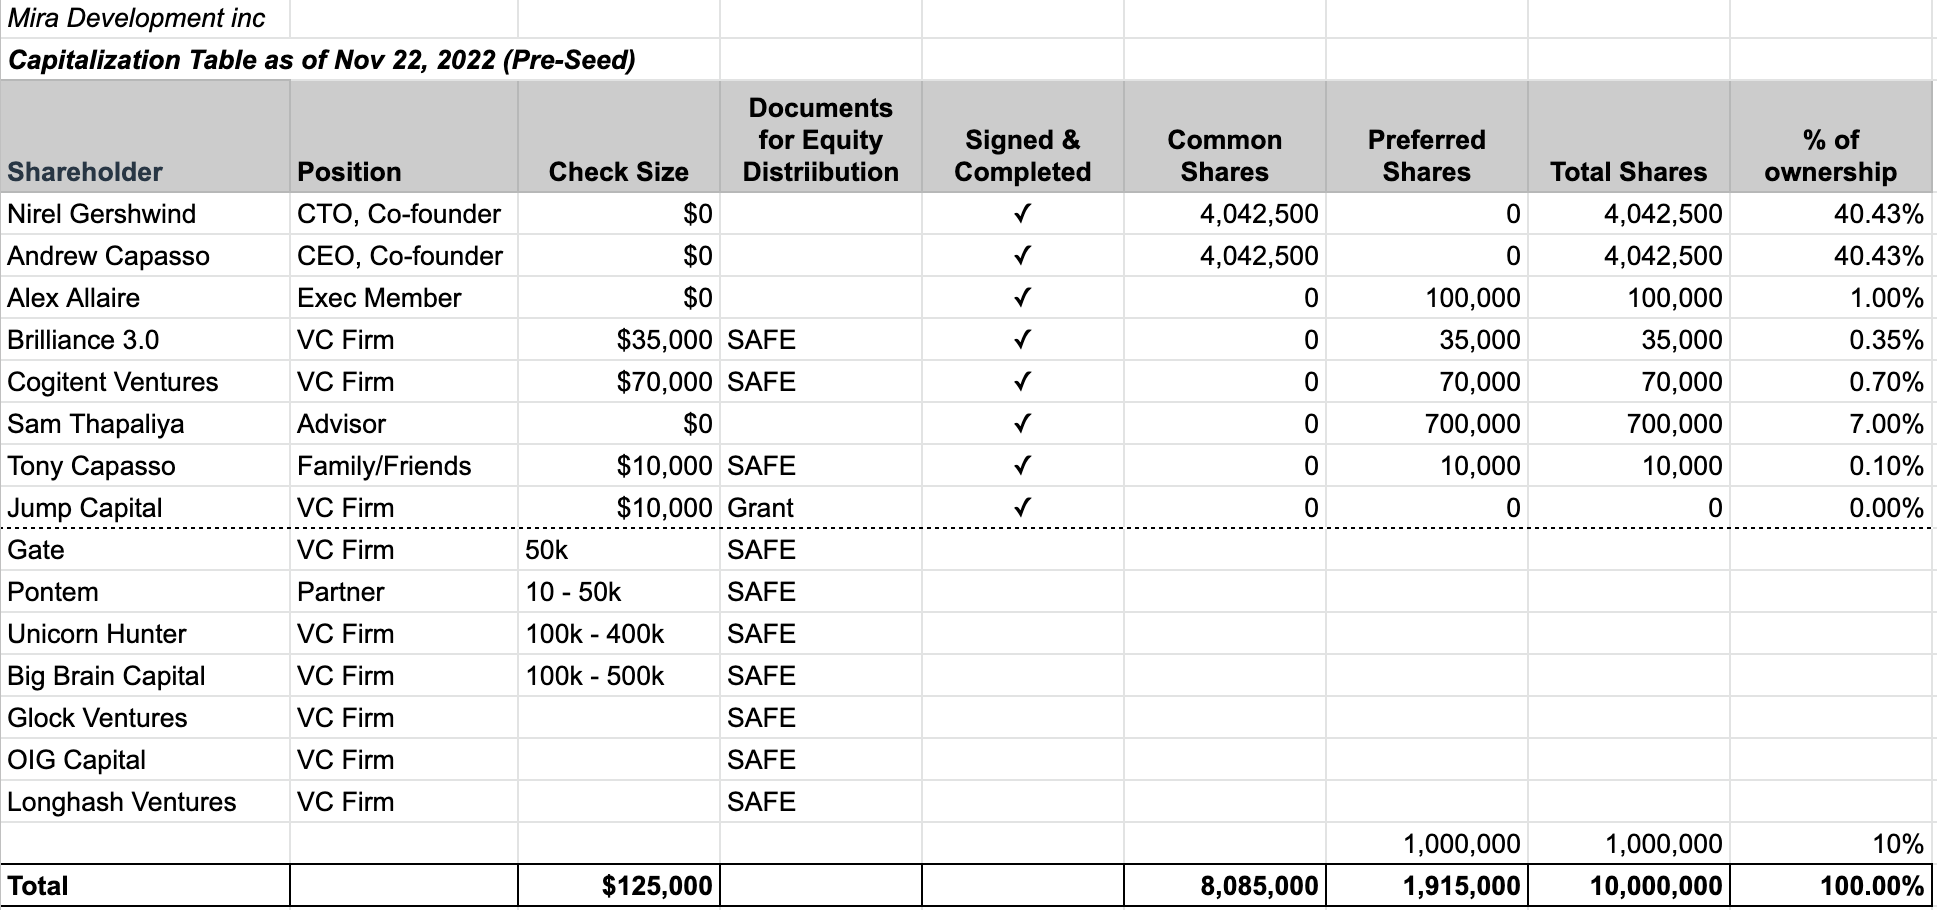
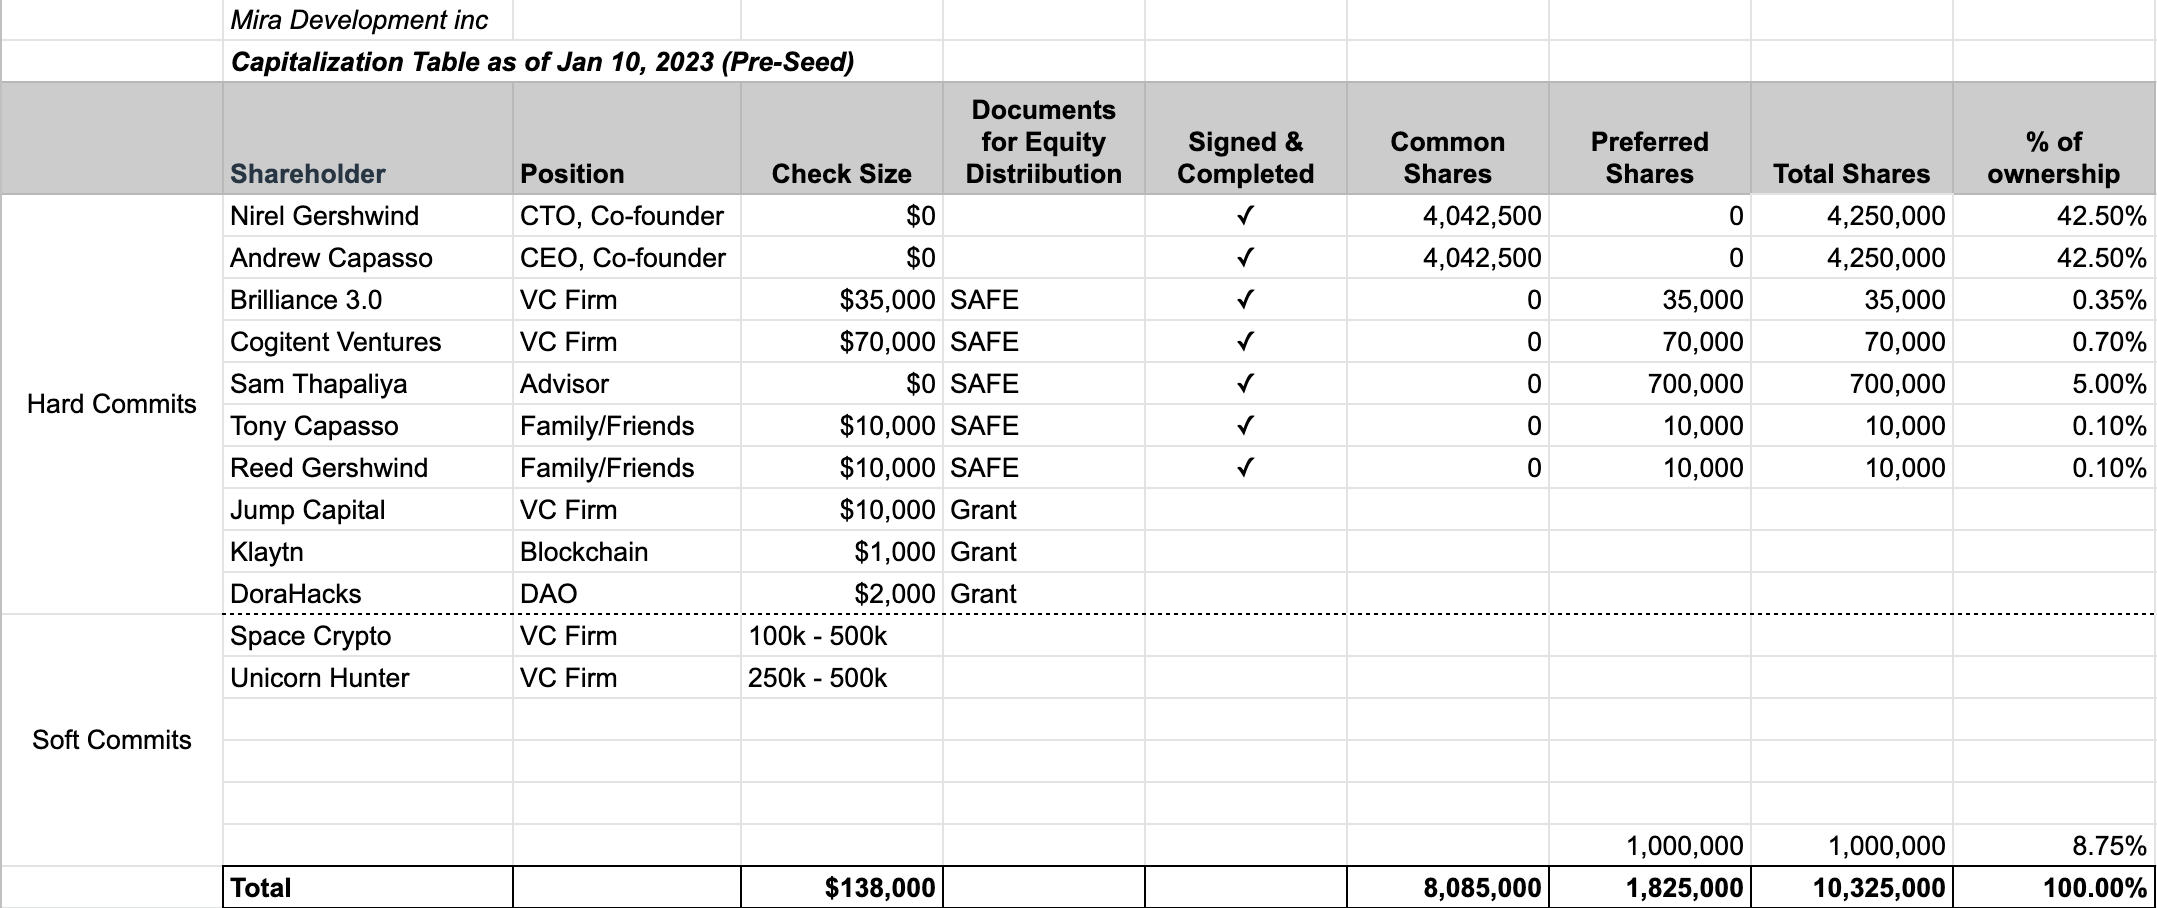
update burn, cap

Changed region(s): [[0.0, 0.0, 1.0, 1.0]]

diff --git a/docs/Financial/safe.md b/docs/Financial/safe.md
@@ -2,7 +2,7 @@
 layout: default
 title: SAFE Note
 parent: Financial
-nav_order: 5
+nav_order: 4
 ---
 
 # SAFE Note
